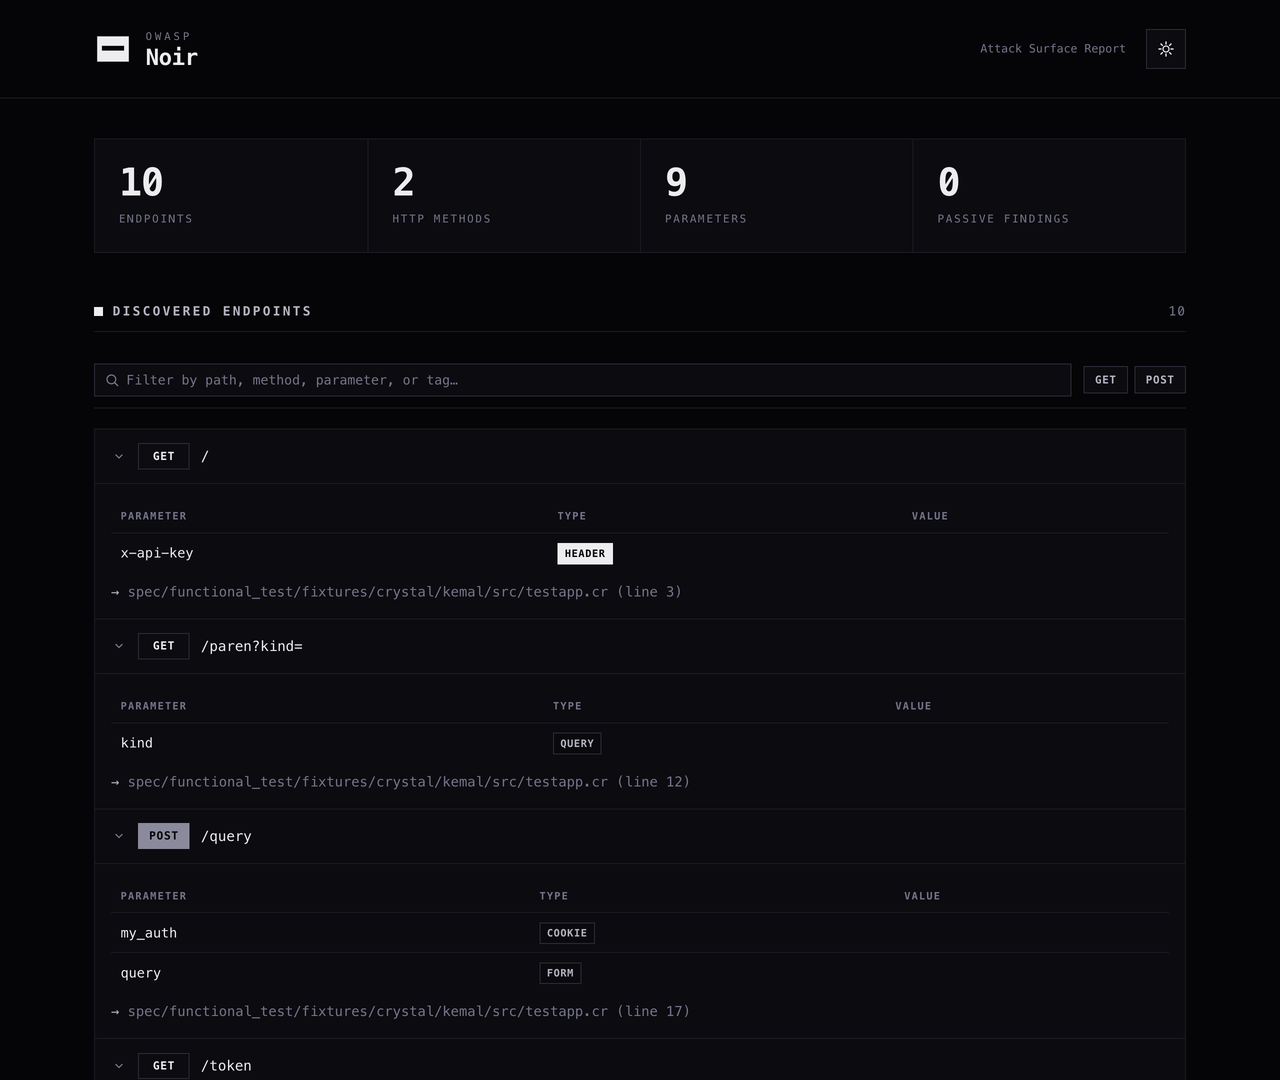
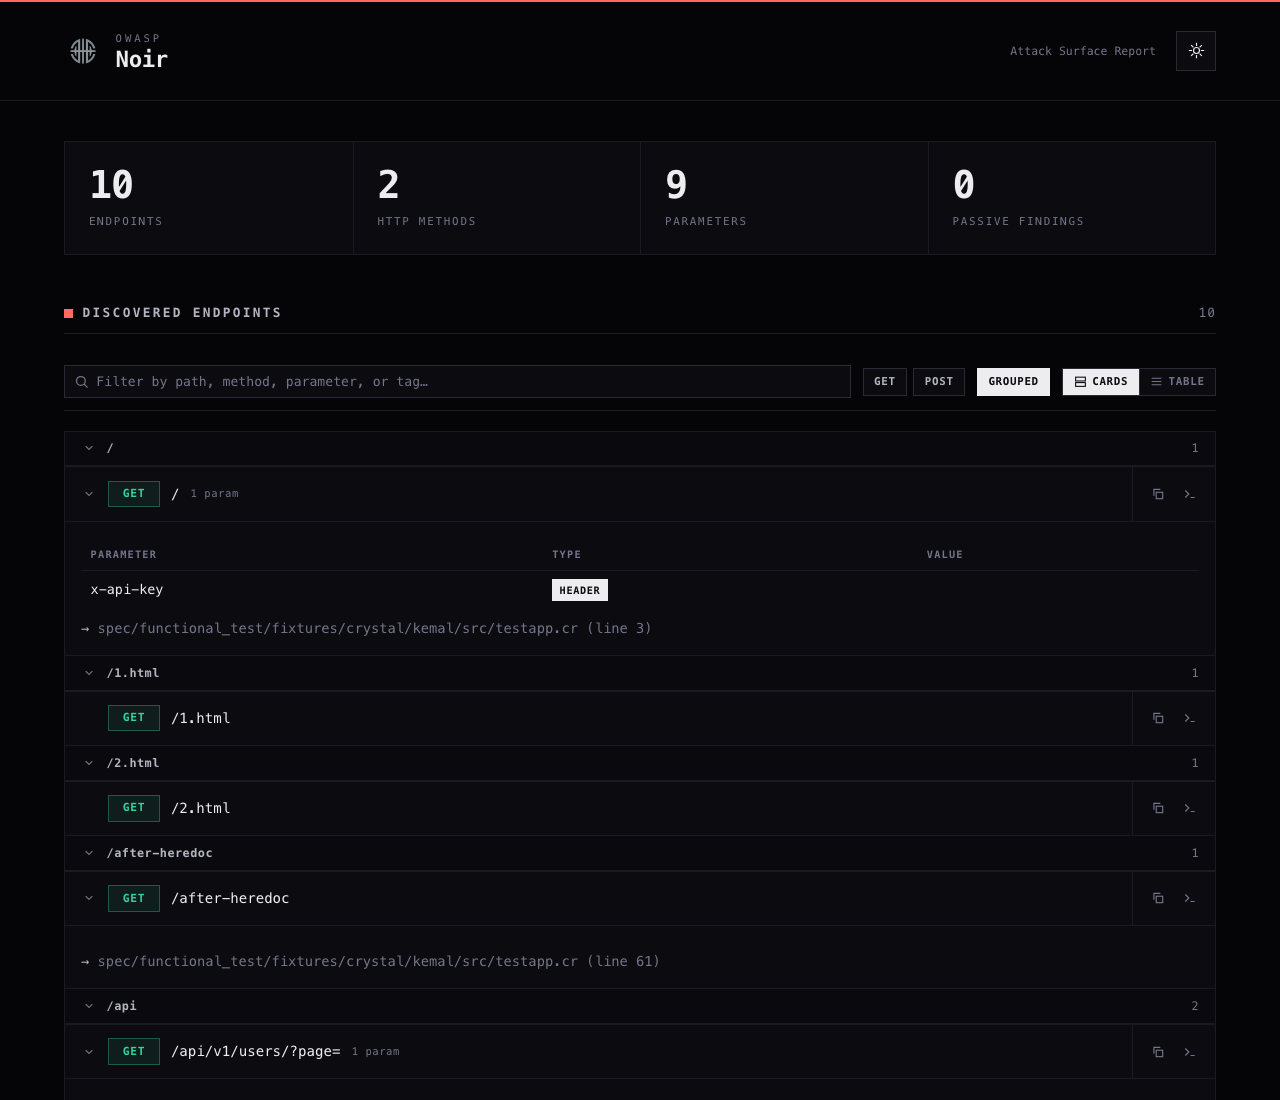
docs: refresh HTML report page for the semantic-color redesign (#2305)
* redesign(output/html): dark-tech report with semantic method/severity colors

Redesign the -f html report on top of the monochrome noir base:

- Semantic color tokens: HTTP methods (GET emerald, POST amber, PUT blue,
  PATCH violet, DELETE red) and severities (critical filled red, high/
  medium/low tints) get restrained tint-outline hues in both themes,
  with light-mode values picked for WCAG AA contrast. Chrome stays
  neutral; one emerald brand accent (header edge, visor, section marks).
- Path grouping: endpoints are grouped by authority + first path segment
  with collapsible group headers and live counts that update with the
  search/method filters; a Grouped toggle flattens the list. Grouping
  only activates when it adds structure (>= 2 groups, at least one
  multi-member group).
- Cards <-> compact table view toggle, persisted in localStorage and
  applied pre-paint; table view is a dense aligned scan mode.
- Per-endpoint copy buttons: copy URL and copy-as-curl with precomputed
  commands (synthetic ANY methods expand to one command per verb), with
  an execCommand fallback for file:// clipboard limits. Non-HTTP
  endpoints (mobile/CLI) skip the curl button.
- Extract shared curl building into CurlCommand (used by the curl
  builder and the report) and move the report CSS/JS into
  html_assets/{css,js}.cr. Existing DOM contract, template tokens, and
  all 16 prior specs unchanged; 15 new specs cover the new features.
[…]

Pull request: docs: refresh HTML report page for the semantic-color redesign
## Summary

Follow-up to #2304. The `-f html` docs (EN + KO) still described the previous monochrome design, so this refreshes them to match the new report:

- Intro and feature lists now describe the dark-tech theme with semantic method/severity colors, path grouping, the cards/table view toggle, and the copy URL / copy-as-curl buttons.
- Regenerated the light and dark screenshots from the bundled kemal fixture (same reproducible command as before) and added a third screenshot showing the compact table view.
- Placeholder table and the `noir_scripts` warning updated to mention the new interactive pieces.

## Test plan

- `hwaro build -i docs` (132 pages, clean)
- `typos` clean on the changed pages

diff --git a/docs/content/usage/output_formats/html/index.ko.md b/docs/content/usage/output_formats/html/index.ko.md
@@ -6,7 +6,7 @@ sort_by = "weight"
 
 +++
 
-스캔 결과를 시각화한 단독 실행 가능한 인터랙티브 HTML 파일을 생성합니다. 새롭게 디자인된 모노크롬 "noir" 테마를 사용하며, 외부 의존성 없는 단일 파일이라 오프라인에서도 그대로 열리고, 이해관계자와 공유하거나 공격 표면을 리뷰할 때 유용합니다.
+스캔 결과를 시각화한 단독 실행 가능한 인터랙티브 HTML 파일을 생성합니다. 시맨틱 컬러를 더한 다크테크 "noir" 테마를 사용합니다. 크롬(UI 틀)은 무채색과 모노 타이포로 유지하고, 색은 의미가 있는 곳에만 절제해서 사용해 HTTP 메서드와 발견 항목의 심각도가 한눈에 들어옵니다. 외부 의존성 없는 단일 파일이라 오프라인에서도 그대로 열리고, 이해관계자와 공유하거나 공격 표면을 리뷰할 때 유용합니다.
 
 ## 기본 사용법
 
@@ -22,29 +22,36 @@ noir scan . -f html -o report.html
 noir scan -b spec/functional_test/fixtures/crystal/kemal -f html -o report.html
 ```
 
-<img src="./report-light.png" alt="Noir HTML 리포트, 라이트 테마" width="1280" height="2445" loading="lazy" decoding="async">
+<img src="./report-light.png" alt="Noir HTML 리포트, 라이트 테마" width="1280" height="2752" loading="lazy" decoding="async">
 
 리포트에는 **다크 테마**가 내장되어 있습니다. 우측 상단의 컨트롤로 전환할 수 있으며, 선택한 테마는 `localStorage`에 저장되어 다음에 열 때도 유지됩니다. 처음 열 때는 운영체제의 `prefers-color-scheme` 설정을 따릅니다.
 
-<img src="./report-dark.png" alt="Noir HTML 리포트, 다크 테마" width="1280" height="1080" loading="lazy" decoding="async">
+<img src="./report-dark.png" alt="Noir HTML 리포트, 다크 테마" width="1280" height="1100" loading="lazy" decoding="async">
+
+대규모 스캔에는 Cards / Table 컨트롤로 **컴팩트 테이블 뷰**를 사용할 수 있습니다. 같은 엔드포인트가 정렬된 밀도 높은 행으로 재배치되어 수백 개의 경로도 빠르게 훑을 수 있습니다.
+
+<img src="./report-table.png" alt="Noir HTML 리포트, 컴팩트 테이블 뷰" width="1280" height="1622" loading="lazy" decoding="async">
 
 ### 리포트 구성
 
 - **대시보드 요약**: 전체 엔드포인트, HTTP 메서드, 파라미터, 패시브 스캔 결과 요약
-- **엔드포인트 세부 정보**: 모든 엔드포인트를 접을 수 있는 카드로 표시하며, 그레이스케일 메서드 배지(외곽선 = 안전한 읽기, 회색 = 변경, 검은색 = 삭제)와 WebSocket 등 비-HTTP 엔드포인트를 위한 프로토콜 배지를 함께 제공
+- **엔드포인트 세부 정보**: 모든 엔드포인트를 접을 수 있는 카드로 표시하며, 시맨틱 컬러 메서드 배지(GET 에메랄드, POST 앰버, PUT 블루, PATCH 바이올렛, DELETE 레드)와 WebSocket 등 비-HTTP 엔드포인트를 위한 프로토콜 배지를 함께 제공
+- **경로 그룹**: 첫 번째 경로 세그먼트(절대 URL은 호스트 기준)로 엔드포인트를 묶고, 접을 수 있는 그룹 헤더와 그룹별 카운트를 표시
 - **파라미터 분석**: 엔드포인트별로 각 파라미터의 이름, 타입(query, form, json, header, cookie, path), 값을 보여주는 테이블
-- **패시브 스캔 결과**: 패시브 스캐닝(`-P`) 활성화 시 설명, 심각도 배지, 매칭된 코드 스니펫 표시
+- **패시브 스캔 결과**: 패시브 스캐닝(`-P`) 활성화 시 설명, 심각도별 컬러 배지, 매칭된 코드 스니펫 표시
 - **소스 코드 링크**: 각 엔드포인트가 정의된 파일 경로와 줄 번호
 
 ### 인터랙티브 기능
 
 리포트는 별도의 서버나 네트워크 없이 단일 HTML 파일만으로 바로 동작합니다.
 
-- 다음 방문 시에도 유지되고 `prefers-color-scheme`를 존중하는 **라이트 / 다크 테마 토글**
-- 공격 표면을 빠르게 훑을 수 있도록 세부 정보를 접을 수 있는 **접이식 엔드포인트 카드**
+- 다음 방문 시에도 유지되고 `prefers-color-scheme`를 존중하는 **라이트 / 다크 테마 토글**. 두 테마 모두 동일한 시맨틱 컬러를 대비에 맞게 조정해 사용
+- 세부 정보는 접이식 카드로, 대규모 스캔은 정렬된 컴팩트 테이블로 보는 **카드 / 테이블 뷰 토글** (선택은 다음 방문에도 유지)
+- 이미 검토한 그룹은 접어두고, Grouped 토글로 전체 목록을 평평하게 펼칠 수 있는 **경로 그룹 컨트롤** (필터링에 따라 그룹 카운트 실시간 갱신)
 - 경로, 메서드, 파라미터, 태그로 엔드포인트를 거르는 **실시간 검색** (표시/전체 개수 실시간 표시)
-- 엔드포인트와 패시브 결과 목록을 좁히는 **메서드·심각도 필터 칩**
-- **인쇄 친화적**: 인쇄 시 모든 카드를 펼치고 컨트롤을 숨기며, `prefers-reduced-motion`을 존중
+- 엔드포인트와 패시브 결과 목록을 좁히는 **메서드·심각도 필터 칩** (누른 칩은 해당 메서드/심각도 색상으로 표시)
+- 엔드포인트마다 URL 복사와, 메서드·파라미터·헤더·쿠키로 구성된 바로 실행 가능한 curl 커맨드를 복사하는 **복사 버튼**
+- **인쇄 친화적**: 인쇄 시 모든 카드와 그룹을 펼치고 컨트롤을 숨기며, `prefers-reduced-motion`을 존중
 
 ## 템플릿 커스터마이징
 
@@ -69,13 +76,13 @@ Noir는 아래 경로에서 `report-template.html` 파일을 찾습니다.
 | `<%= noir_head %>` | 기본 CSS, 메타데이터, 페인트 전 테마 초기화 스크립트를 포함한 `<head>` 태그 내용 |
 | `<%= noir_header %>` | 제목, 브랜드 마크, 테마 토글이 포함된 헤더 섹션 |
 | `<%= noir_summary %>` | 요약 대시보드 (카운트 카드) |
-| `<%= noir_endpoints %>` | 검색창과 메서드 필터 칩을 포함한, 발견된 엔드포인트 목록 섹션 |
+| `<%= noir_endpoints %>` | 검색창, 필터 칩, 뷰 토글, 경로 그룹을 포함한, 발견된 엔드포인트 목록 섹션 |
 | `<%= noir_passive_scans %>` | 패시브 스캔 결과 섹션 |
 | `<%= noir_footer %>` | 푸터 섹션 |
-| `<%= noir_scripts %>` | 인터랙티브 스크립트 (테마 토글, 접이식 카드, 검색, 필터) |
+| `<%= noir_scripts %>` | 인터랙티브 스크립트 (테마 토글, 접이식 카드·그룹, 검색, 필터, 뷰 전환, 복사 버튼) |
 
 {% alert_warning() %}
-noir_scripts 플레이스홀더를 잊지 마세요. 템플릿의 닫는 body 태그 바로 앞에 추가하면 됩니다. 없어도 리포트는 렌더링되지만 테마 토글, 접이식 카드, 검색, 필터 칩이 동작하지 않습니다.
+noir_scripts 플레이스홀더를 잊지 마세요. 템플릿의 닫는 body 태그 바로 앞에 추가하면 됩니다. 없어도 리포트는 렌더링되지만 테마 토글, 접이식 카드, 검색, 필터, 뷰 전환, 복사 버튼이 동작하지 않습니다.
 {% end %}
 
 ### 예제 템플릿

diff --git a/docs/content/usage/output_formats/html/index.md b/docs/content/usage/output_formats/html/index.md
@@ -6,7 +6,7 @@ sort_by = "weight"
 
 +++
 
-Generate a self-contained, interactive HTML file that visualizes scan results. The report ships a redesigned, monochrome "noir" theme: a single file with no external dependencies, so it renders offline and is easy to share with stakeholders or use when reviewing an application's attack surface.
+Generate a self-contained, interactive HTML file that visualizes scan results. The report ships a dark-tech "noir" theme with semantic color: neutral chrome and mono type, with restrained hues reserved for meaning, so HTTP methods and finding severities stand out at a glance. It is a single file with no external dependencies, so it renders offline and is easy to share with stakeholders or use when reviewing an application's attack surface.
 
 ## Basic Usage
 
@@ -22,29 +22,36 @@ The screenshots below are a **real report**, generated from Noir's bundled Kemal
 noir scan -b spec/functional_test/fixtures/crystal/kemal -f html -o report.html
 ```
 
-<img src="./report-light.png" alt="Noir HTML report, light theme" width="1280" height="2445" loading="lazy" decoding="async">
+<img src="./report-light.png" alt="Noir HTML report, light theme" width="1280" height="2752" loading="lazy" decoding="async">
 
 The report includes a built-in **dark theme**. Toggle it from the control in the top-right corner; your choice is remembered across visits (via `localStorage`) and the report also honors your operating system's `prefers-color-scheme` on first open.
 
-<img src="./report-dark.png" alt="Noir HTML report, dark theme" width="1280" height="1080" loading="lazy" decoding="async">
+<img src="./report-dark.png" alt="Noir HTML report, dark theme" width="1280" height="1100" loading="lazy" decoding="async">
+
+For large scans, switch to the **compact table view** from the Cards / Table control: the same endpoints re-flow into dense aligned rows so you can sweep hundreds of paths quickly.
+
+<img src="./report-table.png" alt="Noir HTML report, compact table view" width="1280" height="1622" loading="lazy" decoding="async">
 
 ### What's in the report
 
 - **Dashboard Summary**: A high-level overview of total endpoints, HTTP methods, parameters, and passive scan findings.
-- **Endpoint Details**: Every discovered endpoint as a collapsible card, with a grayscale method badge (outline = safe read, gray = mutate, solid = destroy) and a protocol badge for non-HTTP endpoints such as WebSockets.
+- **Endpoint Details**: Every discovered endpoint as a collapsible card with a semantically colored method badge (GET emerald, POST amber, PUT blue, PATCH violet, DELETE red) and a protocol badge for non-HTTP endpoints such as WebSockets.
+- **Path Groups**: Endpoints are grouped by their first path segment (or host for absolute URLs), with collapsible group headers and per-group counts.
 - **Parameter Breakdown**: Per-endpoint tables listing each parameter, its type (query, form, json, header, cookie, path), and value.
-- **Passive Scan Results**: When passive scanning is enabled (`-P`), findings are displayed with descriptions, severity badges, and the matched code snippet.
+- **Passive Scan Results**: When passive scanning is enabled (`-P`), findings are displayed with descriptions, color-coded severity badges, and the matched code snippet.
 - **Source Code Links**: The file path and line number where each endpoint was defined.
 
 ### Interactive features
 
 The report is interactive out of the box: everything below works from the single HTML file, with no server or network access.
 
-- **Light / dark theme toggle** that persists across visits and respects `prefers-color-scheme`.
-- **Collapsible endpoint cards** so you can fold away detail and scan the surface quickly.
+- **Light / dark theme toggle** that persists across visits and respects `prefers-color-scheme`. Both themes use the same semantic hues, tuned for contrast.
+- **Cards / table view toggle**: collapsible cards for detail, or a compact aligned table for scanning large surfaces. Your choice persists across visits.
+- **Path grouping controls**: collapse groups you have already reviewed, or flatten the whole list with the Grouped toggle. Group counts update live as you filter.
 - **Live search** to filter endpoints by path, method, parameter, or tag, with a live "shown / total" count.
-- **Method and severity filter chips** to narrow the endpoint and passive-finding lists.
-- **Print-friendly**: printing forces every card open and hides the controls, and the report honors `prefers-reduced-motion`.
+- **Method and severity filter chips** to narrow the endpoint and passive-finding lists; pressed chips take on their method or severity color.
+- **Copy buttons** on every endpoint: copy the URL, or copy a ready-to-run curl command built from the endpoint's method, parameters, headers, and cookies.
+- **Print-friendly**: printing forces every card and group open and hides the controls, and the report honors `prefers-reduced-motion`.
 
 ## Customizing the Template
 
@@ -69,13 +76,13 @@ Templates use placeholders that Noir replaces with generated content:
 | `<%= noir_head %>` | The contents of the `<head>` tag, including default CSS, metadata, and the pre-paint theme initializer. |
 | `<%= noir_header %>` | The header section containing the title, brand mark, and theme toggle. |
 | `<%= noir_summary %>` | The summary dashboard (cards showing counts). |
-| `<%= noir_endpoints %>` | The main section listing all discovered endpoints, including the search box and method filter chips. |
+| `<%= noir_endpoints %>` | The main section listing all discovered endpoints, including the search box, filter chips, view toggle, and path groups. |
 | `<%= noir_passive_scans %>` | The section listing passive scan results. |
 | `<%= noir_footer %>` | The footer section. |
-| `<%= noir_scripts %>` | The interactivity scripts (theme toggle, collapsible cards, search, and filters). |
+| `<%= noir_scripts %>` | The interactivity scripts (theme toggle, collapsible cards and groups, search, filters, view switching, and copy buttons). |
 
 {% alert_warning() %}
-Don't forget the noir_scripts placeholder: add it to your template, usually right before the closing body tag. Without it the report still renders, but the theme toggle, collapsible cards, search, and filter chips won't work.
+Don't forget the noir_scripts placeholder: add it to your template, usually right before the closing body tag. Without it the report still renders, but the theme toggle, collapsible cards, search, filters, view switching, and copy buttons won't work.
 {% end %}
 
 ### Example Template